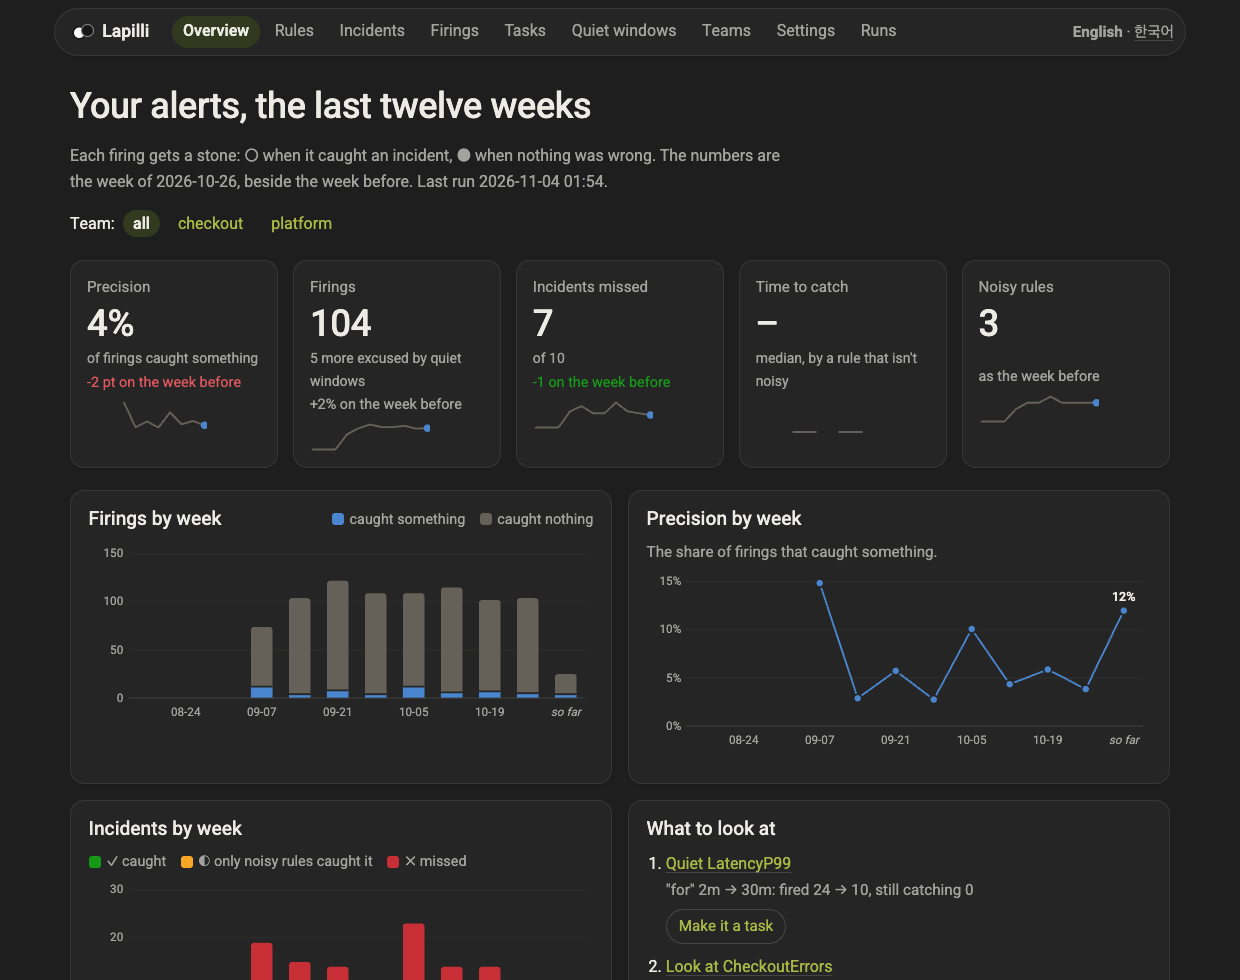
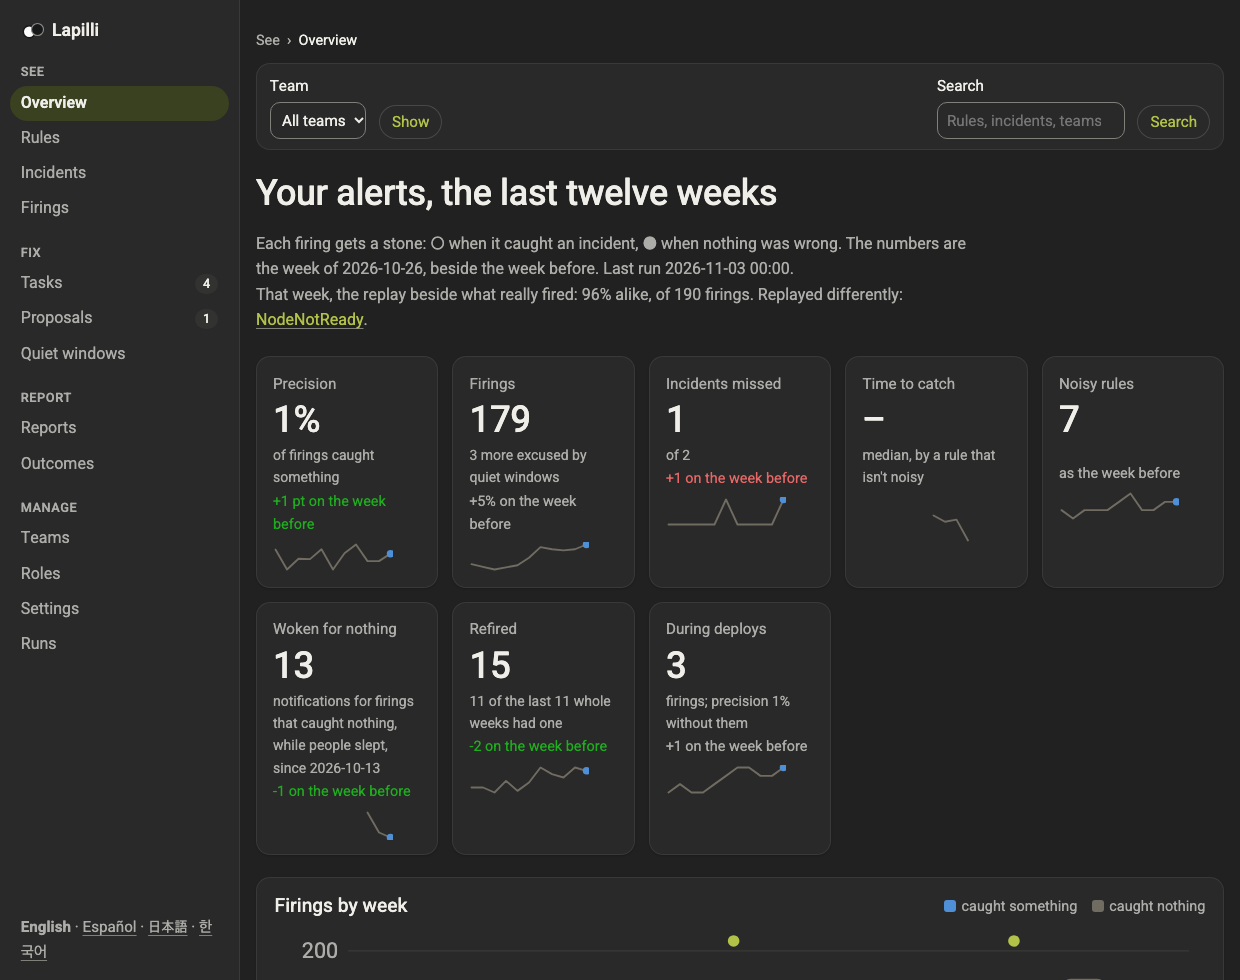
README: screenshots of the overview and a rule's page, from the demo ledger
test/screenshots/shots.sh serves the demo ledger and takes them, 1240×980,
in English, light and dark: in the Playwright image axe.sh uses, or with
--local, with Node and the browser of the version test/a11y pins. The
overview's are new; a noisy rule's page, over four weeks, is added, with
a paragraph on what the page has.

diff --git a/README.md b/README.md
@@ -1155,7 +1155,7 @@ lapilli serve --rules alert-rules/ --prometheus http://prometheus:9090 --match s
 
 <picture>
   <source media="(prefers-color-scheme: dark)" srcset="assets/serve-dashboard-dark.png">
-  <img alt="The lapilli serve dashboard: last week's precision, firings, incidents missed, time to catch and noisy rules, then firings and precision by week" src="assets/serve-dashboard.png" width="820">
+  <img alt="The lapilli serve overview, with its pages in a sidebar: last week's precision, firings, incidents missed, time to catch, noisy rules, firings that woke people for nothing, re-fires and firings during deploys, each beside the week before, then firings by week" src="assets/serve-dashboard.png" width="820">
 </picture>
 
 A web UI opens on a dashboard of the last twelve weeks: last week's
@@ -1187,6 +1187,19 @@ name and `is:noisy`, `severity:critical`, `status:tune`, `has:proposal`,
 `label:team=pay`, `group:shop` and `team:pay`; each filter in effect is a
 chip that takes it away, and the URL keeps them all
 ([docs/design/ui.md](docs/design/ui.md)).
+
+A rule's page has its badges, what to check about it and what can be done
+at its top; five numbers over the period picked (precision, firings,
+incidents caught, the notifications it sent, and how alike its backtest is
+to what really fired), each beside as long a span before; its last 84
+days, a cell a day, marked where it changed, where what it is about was
+deployed and where a quiet window covered it; and its sections in tabs:
+firings, versions (each beside the one before), proposals and activity.
+
+<picture>
+  <source media="(prefers-color-scheme: dark)" srcset="assets/serve-rule-dark.png">
+  <img alt="A noisy rule's page over four weeks: its badges and actions; precision, firings, incidents caught, notifications sent and the backtest, each beside the four weeks before; its last 84 days as a strip of cells, marked where the rule changed and where checkout was deployed; and its tabs" src="assets/serve-rule.png" width="820">
+</picture>
 
 What an operations team measures its alerts by is there too, week by week
 and team by team (docs/design/noc.md): the share of critical firings that

diff --git a/site/index.md b/site/index.md
@@ -20,7 +20,7 @@ incident with no stone is one your alerts missed.</p>
 <div class="shot">
 <picture>
   <source media="(prefers-color-scheme: dark)" srcset="{{ '/serve-dashboard-dark.png' | relative_url }}">
-  <img alt="The lapilli serve dashboard: last week's precision, firings, incidents missed, time to catch and noisy rules, then firings and precision by week" src="{{ '/serve-dashboard.png' | relative_url }}" width="1240" height="980">
+  <img alt="The lapilli serve overview, with its pages in a sidebar: last week's precision, firings, incidents missed, time to catch, noisy rules, firings that woke people for nothing, re-fires and firings during deploys, each beside the week before, then firings by week" src="{{ '/serve-dashboard.png' | relative_url }}" width="1240" height="980">
 </picture>
 </div>
 
